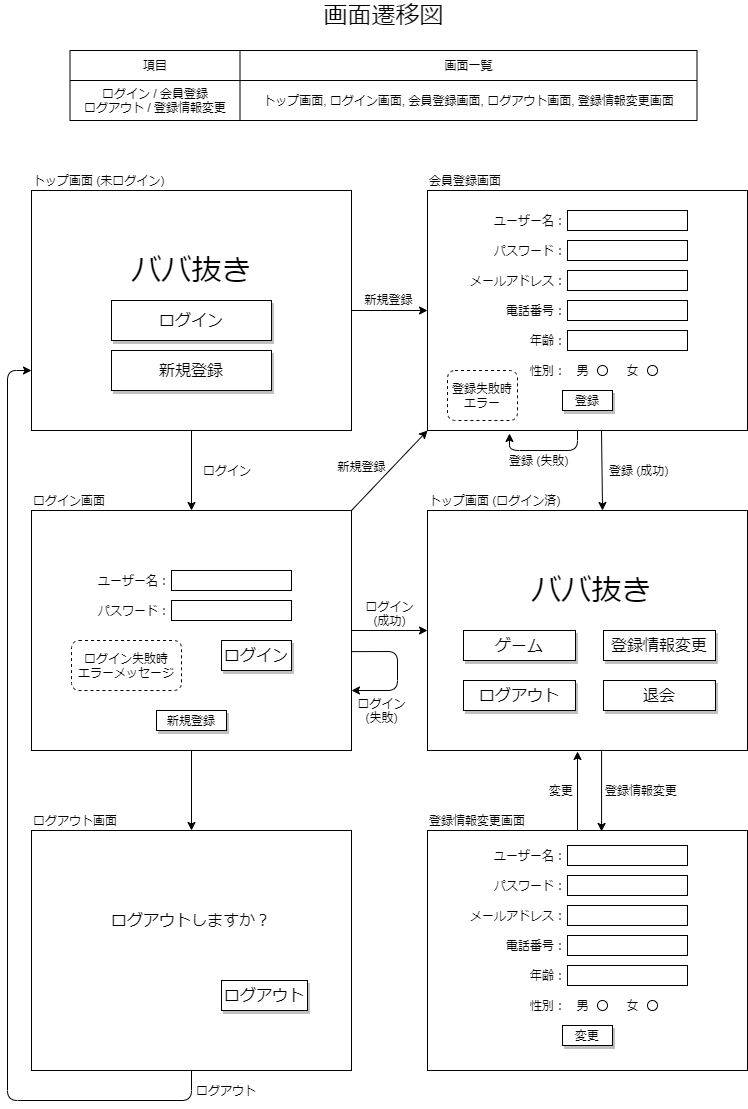
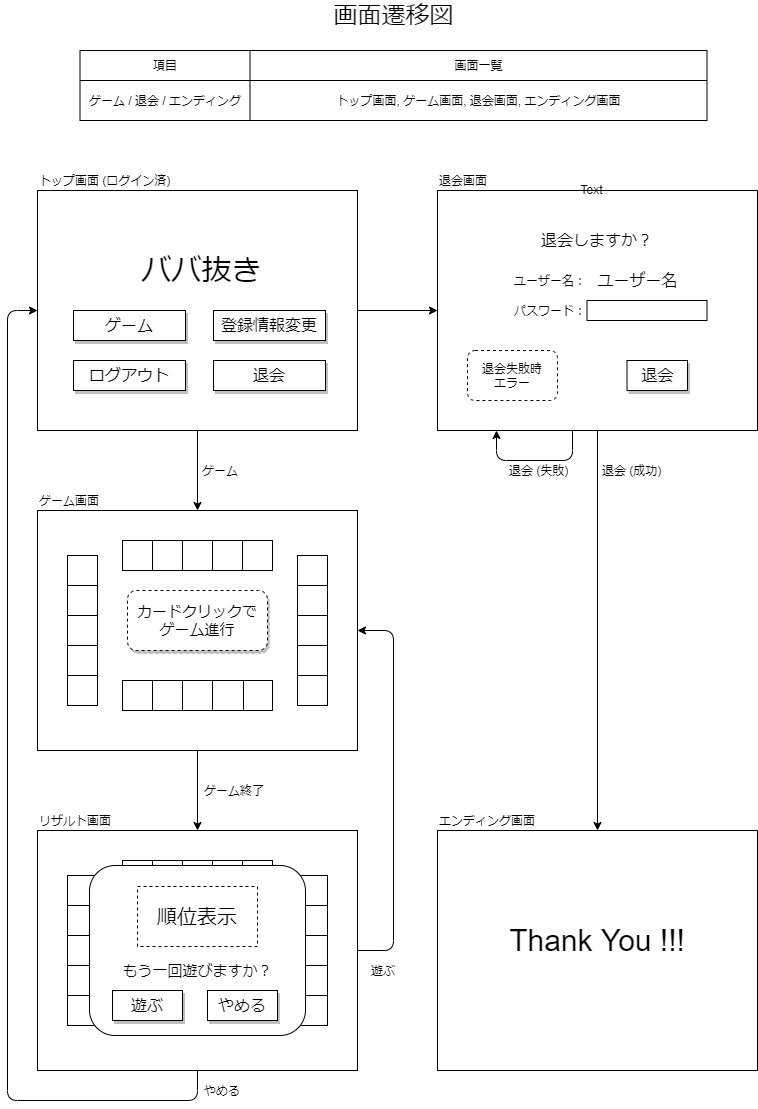
README追加

diff --git a/README.md b/README.md
@@ -1,0 +1,86 @@
+# pullEyesWithOutDragon
+
+「ババ抜き」  
+
+ブラウザ上で遊べるトランプゲーム。  
+サーブレット & JSP のみでは実装できない非同期通信により、ページ遷移のないスマートなWebアプリケーションを作成。  
+
+## Demo
+
+![対戦ババ抜き](https://github.com/kakuto-Takeshi/TeamA-Without-bubbling/blob/master/document/baba.gif)
+
+## 目的
+
+1.授業で学んだ知識や技能の習熟  
+・Java基礎  
+・サーブレット & JSP  
+・SQL & DB操作  
+
+2.授業で学べなかった知識や技能の習得  
+・HTML  
+・CSS  
+・JavaScript ⇒ jQuery, Vue.js, Ajax  
+
+主に『授業で学べなかった知識や技能の習得』を中心に制作物の内容を決定。  
+各メンバー、希望する技術を用いて担当部分の制作に取り組む。  
+
+## 仕様・機能概要
+
+-   ログイン/ログアウト機能
+-   新規登録機能
+-   登録情報変更機能
+-   退会機能
+-   ゲーム機能
+
+    ブラウザ上で遊べるWebアプリケーション  
+    ユーザー vs CPU  
+    画面クリックによるゲーム進行  
+    Ajax非同期通信によるスマートなモデル  
+
+## 使用技術
+
+-   Java ⇒ サーブレット, JSP
+-   HTML
+-   CSS
+-   JavaScript ⇒ jQuery, Vue.js, Ajax
+-   MySQL
+-   Apache
+-   Tomcat
+
+## チームメンバー
+
+角藤：プロジェクトリーダー
+
+-   DB構築
+-   Servlet制作
+-   ゲーム画面制作
+-   各メンバーのサポート
+
+メンバーA：ゲームロジック担当
+
+-   ゲームシステム制作
+-   アカウント制御機能の実装
+-   プロジェクト仕様書作成
+
+メンバーB：ゲームデザイン担当
+
+-   ゲーム画面作成
+-   各ページのギミック実装
+-   エンドロール作成
+
+メンバーC：ページデザイン担当
+
+-   各ページデザインの実装
+-   プロジェクト仕様書作成
+-   制作発表資料の作成
+
+## 制作資料(一部)
+
+-   画面遷移図1
+    ![画面遷移図1](https://github.com/kakuto-Takeshi/TeamA-Without-bubbling/blob/master/document/Screen-transition1.pngf)
+
+-   画面遷移図2
+    ![画面遷移図2](https://github.com/kakuto-Takeshi/TeamA-Without-bubbling/blob/master/document/Screen-transition2.pngf)
+
+-   データ遷移図
+    ![データ遷移図](https://github.com/kakuto-Takeshi/TeamA-Without-bubbling/blob/master/document/new-account.png)
